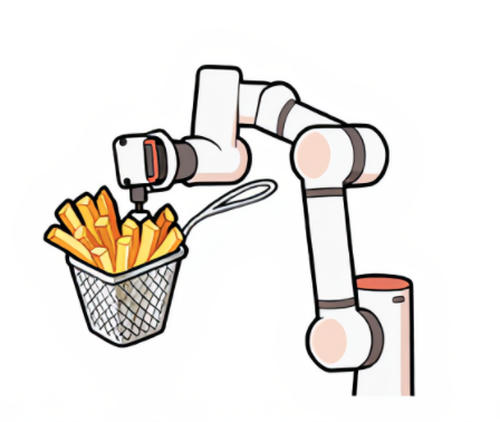
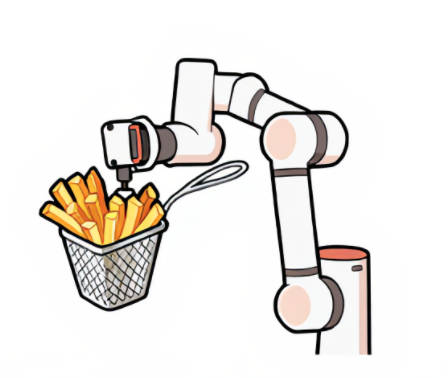
Add README and implement image compression module
- Introduced README.md with coding process overview.
- Added CompressImage struct and functionality for JPEG compression in compress.rs.
- Removed redundant print statement in main.rs.

diff --git a/src/compress.rs b/src/compress.rs
@@ -1,0 +1,35 @@
+use image::codecs::jpeg::JpegEncoder;
+use image::imageops::FilterType;
+use image::{DynamicImage, ImageReader, ImageResult};
+use std::error::Error;
+use std::fs::File;
+use std::io::BufWriter;
+use std::io::Cursor;
+use std::thread::sleep;
+use std::time::Duration;
+use std::time::Instant;
+
+pub struct CompressImage {
+    pub input_path: String,
+    pub output_path: String,
+    pub quality: u8,
+}
+
+impl CompressImage {
+    // 压缩图片
+    pub fn compress_image(&self) -> Result<(), Box<dyn Error>> {
+        // 读图形成DynamicImage
+        let image_dynamic = ImageReader::open(&self.input_path)?.decode()?;
+
+        // 创建输出文件
+        let file = File::create(&self.output_path)?;
+        let mut writer = BufWriter::new(file);
+
+        // 创建JPEG编码器
+        let encoder = JpegEncoder::new_with_quality(&mut writer, self.quality);
+
+        image_dynamic.write_with_encoder(encoder)?;
+
+        Ok(())
+    }
+}

diff --git a/src/main.rs b/src/main.rs
@@ -26,8 +26,6 @@ fn main() -> Result<(), Box<dyn Error>> {
         output_path: cli.output,
         quality: cli.quality,
     };
-
-    println!("input {}", &compressor.input_path);
     compressor.compress_image()?;
     Ok(())
 }

diff --git a/README.md b/README.md
@@ -1,0 +1,8 @@
+
+
+## 写代码流程
+1. 解析 CLI
+2. 读图 decode
+3. （可选）resize
+4. encode 写出（按格式 + quality）
+5. 打印统计（字节数、耗时）
